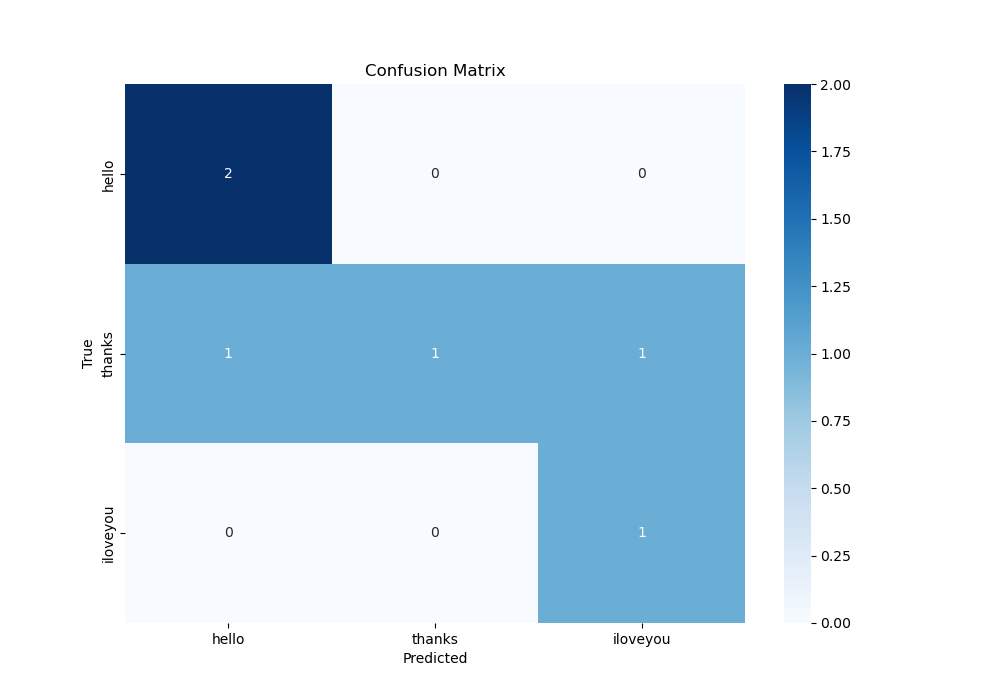
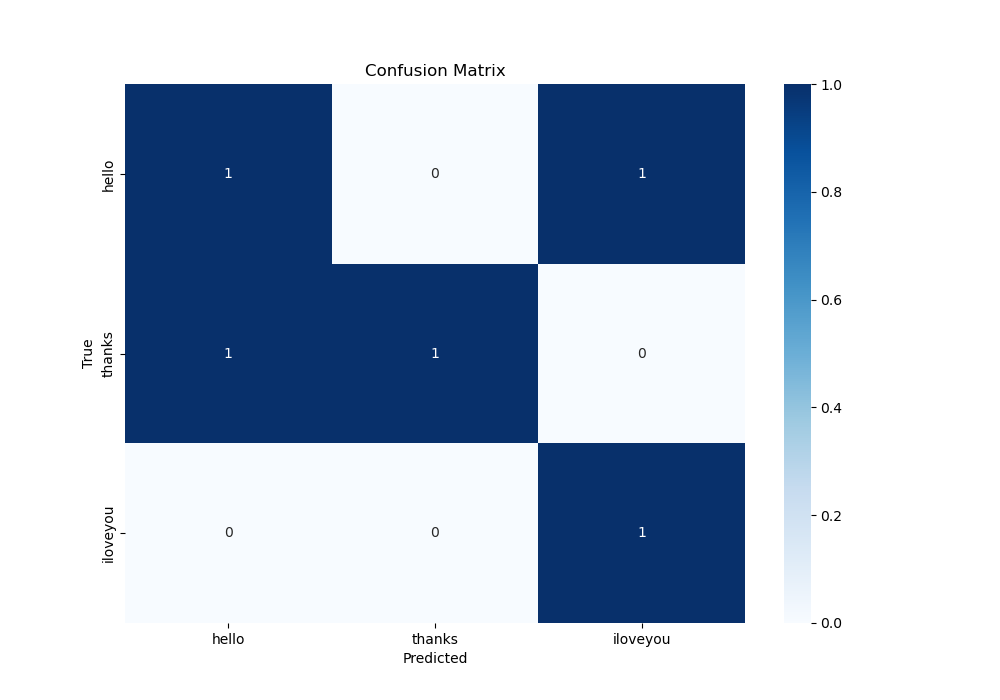
Enhance test script with CSV input and update evaluation results

diff --git a/test_evaluation.py b/test_evaluation.py
@@ -1,9 +1,26 @@
 from evaluation_plots import evaluate_model
-import numpy as np
+import csv
+import os
 
-# Simulated true and predicted labels
-y_true = ['hello', 'thanks', 'thanks', 'iloveyou', 'hello', 'thanks']
-y_pred = ['hello', 'thanks', 'hello', 'iloveyou', 'hello', 'iloveyou']
 labels = ['hello', 'thanks', 'iloveyou']
+
+y_true = []
+y_pred = []
+
+# Optional: load from CSV
+filename = "prediction_log.csv"
+
+if os.path.exists(filename):
+    print(f"Loading predictions from {filename}...")
+    with open(filename, "r") as file:
+        reader = csv.reader(file)
+        next(reader)  # Skip header
+        for row in reader:
+            y_true.append(row[0])
+            y_pred.append(row[1])
+else:
+    print("No prediction log found — using dummy values for test.")
+    y_true = ['hello', 'thanks', 'thanks', 'iloveyou', 'hello']
+    y_pred = ['hello', 'thanks', 'hello', 'iloveyou', 'iloveyou']
 
 evaluate_model(y_true, y_pred, labels)
